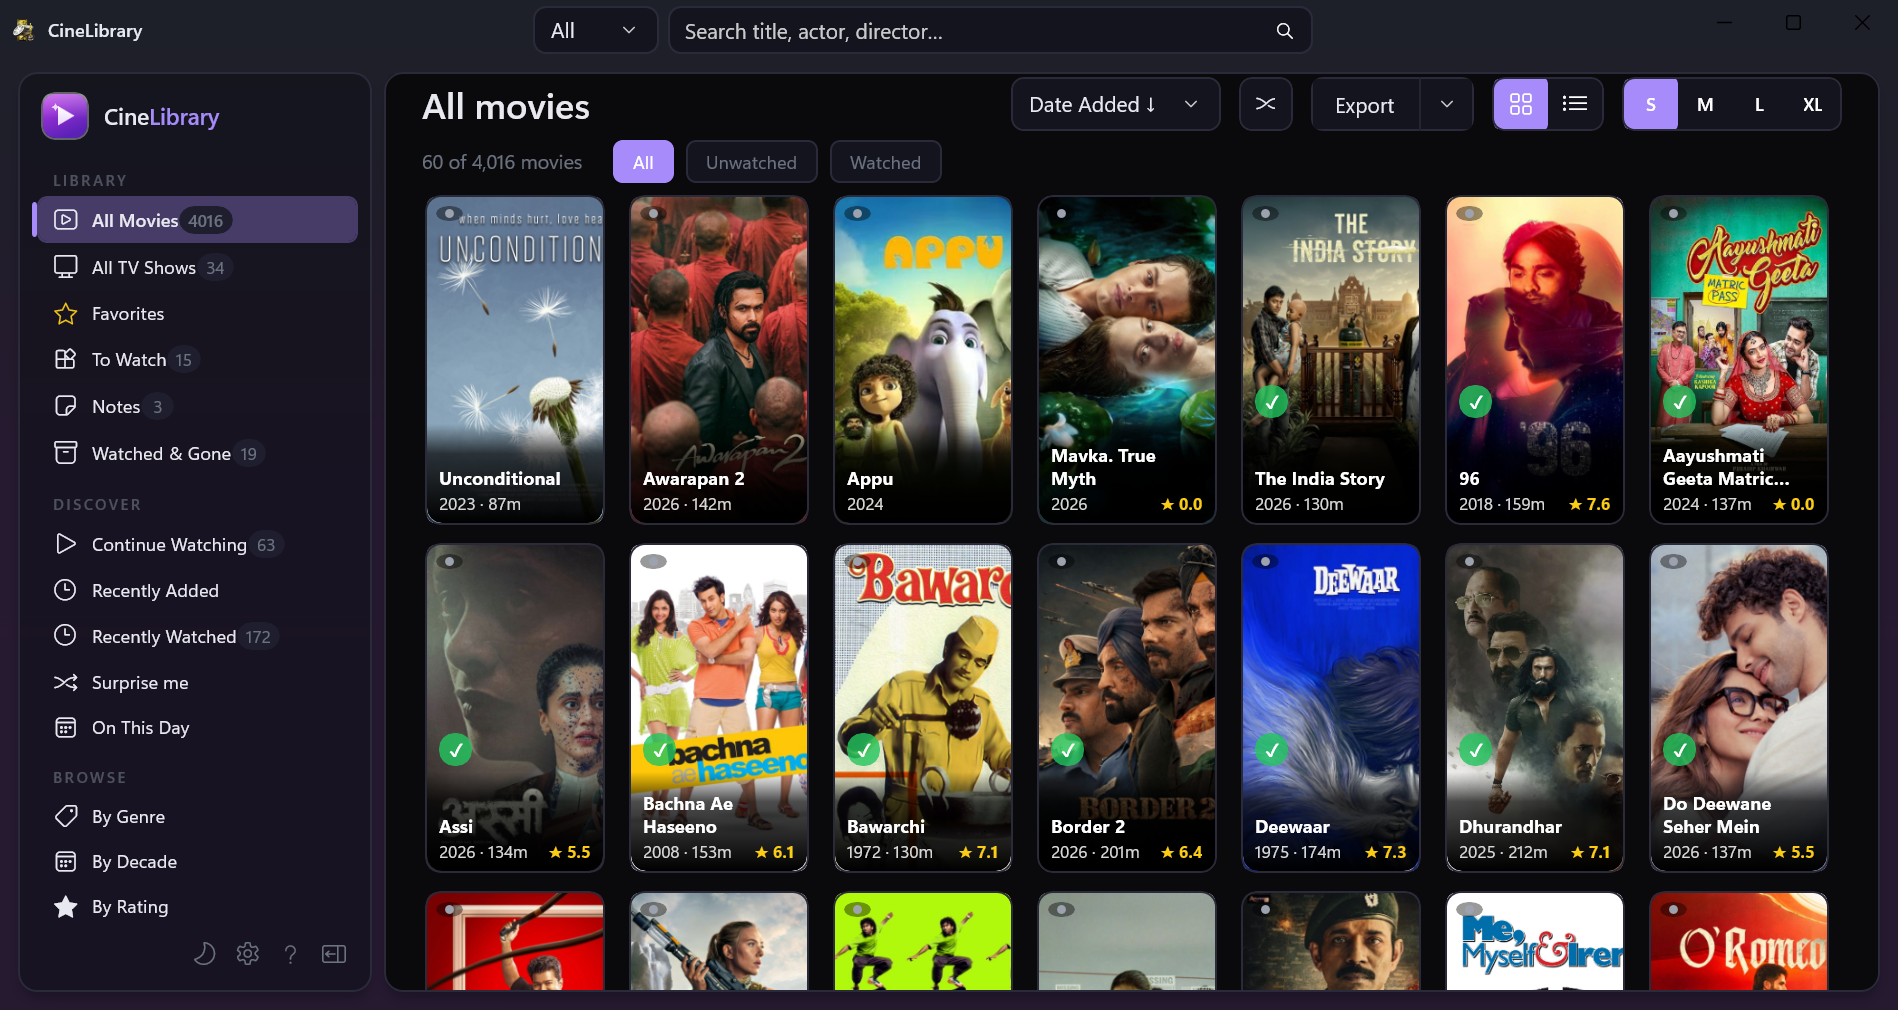
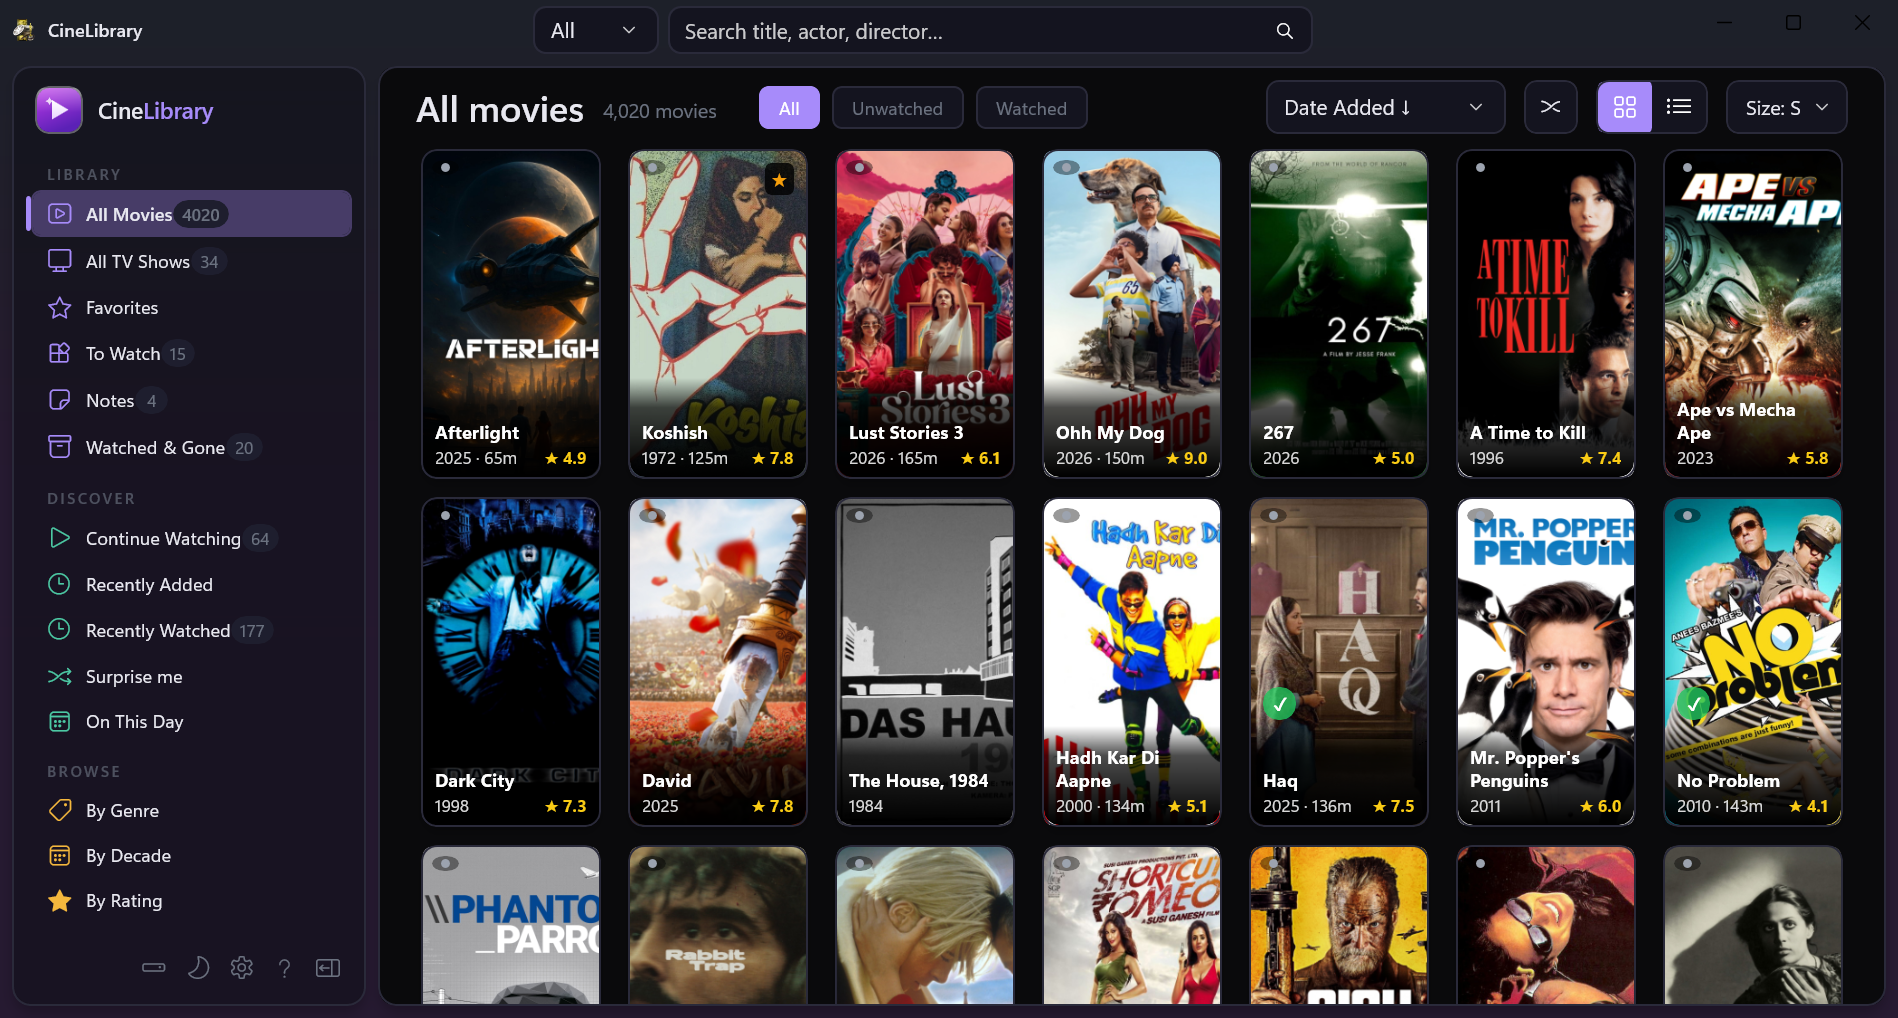
CineLibrary: What's new in v3.9.0, new screenshot, Download v3.9.0

diff --git a/cinelibrary/index.html b/cinelibrary/index.html
@@ -30,7 +30,7 @@
     </p>
     <div class="actions">
       <a class="btn btn-primary" data-dl data-repo="aungkokomm/CineLibraryCS" href="https://github.com/aungkokomm/CineLibraryCS/releases/latest" target="_blank" rel="noopener">
-        ⬇ Download v3.8.0
+        ⬇ Download v3.9.0
       </a>
       <a class="btn btn-ghost" href="https://github.com/aungkokomm/CineLibraryCS/blob/main/docs/USER_GUIDE.md" target="_blank" rel="noopener">
         📖 User Guide
@@ -62,27 +62,34 @@
 
 <section class="section">
   <div class="container">
-    <h2>What's new in v3.8.0: season tabs and a Collections toolbar 🗂</h2>
-    <p style="opacity:0.8;margin-bottom:1rem">Another round from user feedback: long TV shows are quicker to get around, and Collections gets the same tools as your movies.</p>
+    <h2>What's new in v3.9.0: a tidier main window 🧭</h2>
+    <p style="opacity:0.8;margin-bottom:1rem">Everything you need to find a movie now sits on one row, and the sidebar is easier to read at a glance.</p>
 
-    <h3 style="margin-top:1.5rem">📺 Getting around a TV show</h3>
+    <h3 style="margin-top:1.5rem">🧭 One row for everything</h3>
     <ul class="checklist">
-      <li><strong>Season tabs.</strong> Pick a season and the show page shows just that one, so season 10 is one click away. It opens on the first season you haven't finished.</li>
-      <li><strong>‹ › buttons</strong> page through a long row of episodes a screenful at a time. Scrolling sideways still works.</li>
-      <li><strong>More on the show page:</strong> certification and studio on the info line, and an <strong>Open Folder</strong> button.</li>
-      <li><strong>A green ✓ on finished shows</strong>, like on your movie posters.</li>
+      <li><strong>Title, count, filters and tools on one row</strong> on All movies, All TV shows and Collections: All / Unwatched / Watched, sort, Surprise me, grid or list, and poster size. In a narrow window it wraps neatly.</li>
+      <li><strong>Poster size is a drop-down</strong> ("Size: M") instead of four buttons.</li>
+      <li><strong>The movie count is always the real total</strong> for what you're looking at.</li>
+      <li><strong>A tighter frame</strong> around the sidebar and the page, so the search box sits closer to your movies.</li>
     </ul>
 
-    <h3 style="margin-top:1.5rem">🗂 Collections, like All movies</h3>
+    <h3 style="margin-top:1.5rem">🎨 A sidebar you can read at a glance</h3>
     <ul class="checklist">
-      <li><strong>Sort, All / Unwatched / Watched, and S / M / L / XL</strong> poster sizes, remembered for next time.</li>
-      <li><strong>Cards that look like movie cards,</strong> with the name and movie count on the poster and a green ✓ once you've watched them all.</li>
+      <li><strong>Colour-coded icons:</strong> Library, Discover, Browse and Tools each have their own colour, in dark and light themes.</li>
+      <li><strong>Drives moved to the bottom bar,</strong> first in the row, next to Switch theme. Hover it to see how many drives you have.</li>
     </ul>
 
-    <h3 style="margin-top:1.5rem">🧹 Smaller fixes</h3>
+    <h3 style="margin-top:1.5rem">📤 Export, now under Tools</h3>
     <ul class="checklist">
-      <li><strong>Long actor names</strong> no longer cut off the role under them in the movie details window, also with a larger Windows text size.</li>
-      <li><strong>Tidier layouts (v3.7.1 and v3.7.2):</strong> the movie details window and Statistics stay centred, buttons wrap in narrow windows, and dialogs leave room for their scrollbar.</li>
+      <li><strong>Export all your movies</strong> to CSV or HTML, or just <strong>this view</strong> when All movies is filtered, searched or showing a list.</li>
+      <li><strong>Every movie is exported.</strong> Before, a big library could export only the first pages that had loaded.</li>
+    </ul>
+
+    <h3 style="margin-top:1.5rem">🗂 Also recent: season tabs and a Collections toolbar (v3.8.0)</h3>
+    <ul class="checklist">
+      <li><strong>Season tabs on the show page,</strong> ‹ › buttons on long episode rows, certification, studio and Open Folder, and a green ✓ on finished shows.</li>
+      <li><strong>Collections gets sort, All / Unwatched / Watched and poster sizes,</strong> with cards that look like movie cards.</li>
+      <li><strong>Smaller fixes:</strong> long actor names no longer cut off the role, and the details window and Statistics stay centred (v3.7.1 and v3.7.2).</li>
     </ul>
 
     <h3 style="margin-top:1.5rem">📺 Also recent: sort, filter and size your TV shows (v3.7.0)</h3>
